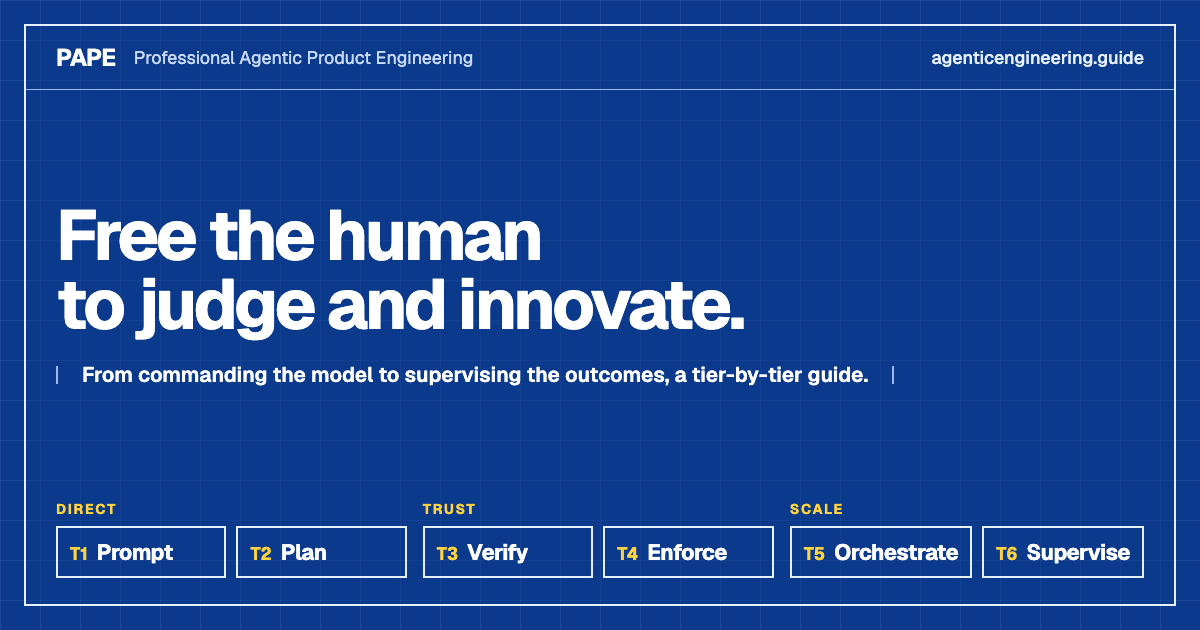
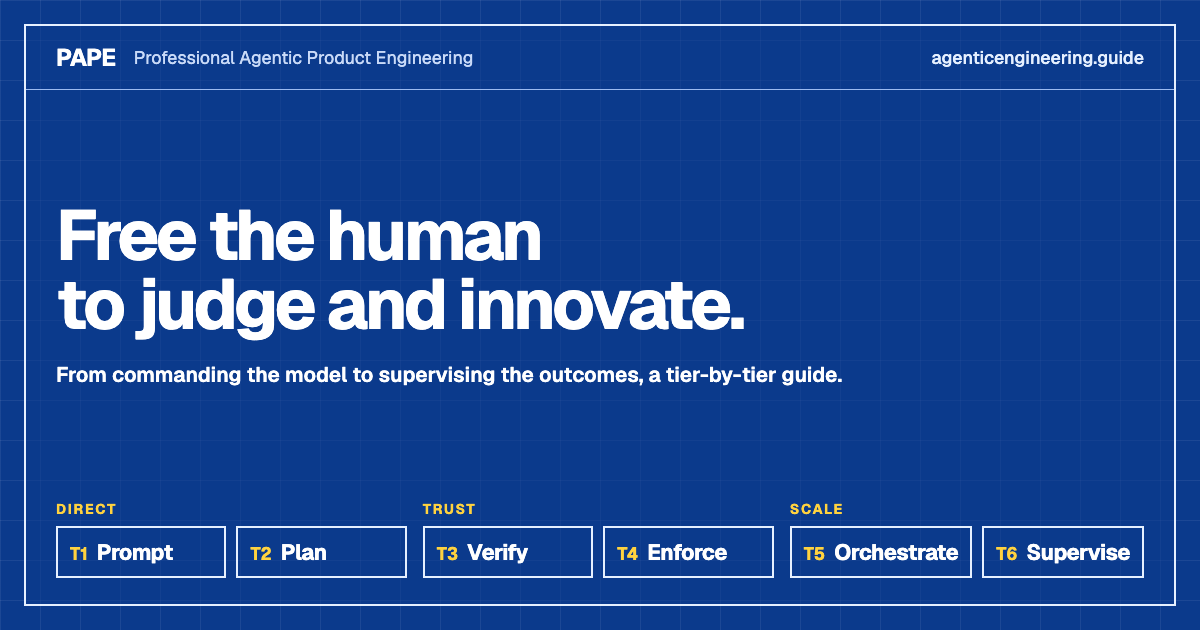
home: subline without the ruler; guide: three-line opener
The subline under the title is plain text now, on the site and the OG card
(regenerated). The opener drops from five lines to three: the headline and
subline already say "free the human" and "tier by tier". Plugin copy synced
(still 1.0.1, unreleased); DESIGN.md and the wiki log updated.

Claude-Session: https://claude.ai/code/session_01SnBLMw6vnayDbfUH7ezPv3

Changed region(s): [[0.0308, 0.573, 0.74, 0.6333]]

diff --git a/web/src/styles.css b/web/src/styles.css
@@ -358,17 +358,14 @@ button { font: inherit; }
   display: grid; grid-template-columns: minmax(0, 1.55fr) minmax(0, 1fr); column-gap: 64px;
   padding-bottom: 40px;
 }
-.hero-title, .ruler { grid-column: 1 / -1; }
+.hero-title, .hero-subline { grid-column: 1 / -1; }
 .hero-opener, .hero-shift { grid-column: 1; }
 .hero-title {
   margin: 0 0 22px; max-width: 13em;
   font-size: clamp(42px, 5vw, 72px); line-height: .95; font-weight: 700; letter-spacing: -0.045em;
   color: var(--heading);
 }
-.ruler { display: flex; align-items: center; gap: 12px; max-width: 760px; margin: 0 0 26px; }
-.ruler-tick { flex: 0 0 2px; height: 20px; background: var(--line2); }
-.ruler-line { flex: 1 1 24px; height: 2px; background: var(--line2); }
-.ruler-text { flex: 0 1 auto; font-size: 17px; font-weight: 600; line-height: 1.3; color: var(--heading); text-align: center; }
+.hero-subline { max-width: 760px; margin: 0 0 26px; font-size: 17px; font-weight: 600; line-height: 1.3; color: var(--heading); }
 .hero-opener { max-width: 760px; margin: 0 0 18px; }
 .content .hero-opener p { margin: 0; font-size: 18.5px; line-height: 1.6; color: var(--body); text-wrap: pretty; }
 .content .hero-shift { max-width: 760px; margin: 0; font-size: 17.5px; color: var(--heading); }
@@ -535,9 +532,6 @@ button { font: inherit; }
   .stage { grid-row: auto; grid-template-rows: none; display: flex; flex-direction: column; gap: 12px; }
   .tb-name { font-size: 23px; }
   .tb-row { grid-template-columns: 104px minmax(0, 1fr); }
-  .ruler { display: block; }
-  .ruler-line, .ruler-tick { display: none; }
-  .ruler-text { display: block; text-align: left; padding-left: 12px; border-left: 2px solid var(--line2); }
   .radar-label { font-size: 24px; }
   .radar-name, .radar-scale { display: none; }
   .audit-result > div { grid-template-columns: 112px minmax(0, 1fr); }

diff --git a/web/DESIGN.md b/web/DESIGN.md
@@ -80,7 +80,7 @@ To change a color, edit the hex in `SCHEMES` — never the generated CSS. The bu
 
 Built in `build.mjs` (`p.kind === 'home'`), read from `guide.md` by `homeData()`. Order:
 
-1. **Hero:** title "Professional Agentic Product Engineering", a ruler line carrying the subline ("From commanding the model to supervising the outcomes, a tier-by-tier guide."), the 5-line opener, the deep-dive line ("From coding features to designing systems…"), and the headline "Free the human to judge and innovate."
+1. **Hero:** title "Professional Agentic Product Engineering", the subline ("From commanding the model to supervising the outcomes, a tier-by-tier guide.") as plain text, the 3-line opener, the deep-dive line ("From coding features to designing systems…"), and the headline "Free the human to judge and innovate."
 2. **The six tiers:** three stage columns (Direct · Trust · Scale), each tier a spec card: T-number, name, "You stop" / "You do instead", linking to its tier page. CSS subgrid lines the cards up across columns.
 3. **Buttons:** Start at T1 · How it works · All N tips · Learn it with your agent.
 4. **Audit your harness (self-audit radar):** six 0–5 sliders beside a hexagon radar SVG. Shows **Strongest** (highest-rated tier[s]) and **Next tier** = the lowest-numbered tier rated ≤2, as a link. **No total and no average**, which is the guide's own audit rule. Ratings saved in `pape.selfAudit`. Points to `/pape:harness-audit` for a real audit. Radar maths is duplicated in build.mjs (server render) and app.js (live); keep them in sync.

diff --git a/guide.md b/guide.md
@@ -5,10 +5,8 @@
 **⭐ Star it; submit issues or PRs** — help yourself and the next person learn better.
 
 Maybe writing code was never the human job.  
-We did it, and many of us loved it, because computers couldn't do it themselves.  
 The job was always understanding the problem and deciding what's worth building.  
-Now machines can write the code, if we build the system around them.  
-That system is what this guide teaches: tier by tier, it takes over a chore and frees the human to decide the outcome.
+Machines can write it now, if we build the system around them — this guide teaches that system.
 
 **From coding features to designing systems: this guide is a deep dive into that [agentic shift](https://agentic-shift.com/).**
 

diff --git a/plugins/pape/guide.md b/plugins/pape/guide.md
@@ -5,10 +5,8 @@
 **⭐ Star it; submit issues or PRs** — help yourself and the next person learn better.
 
 Maybe writing code was never the human job.  
-We did it, and many of us loved it, because computers couldn't do it themselves.  
 The job was always understanding the problem and deciding what's worth building.  
-Now machines can write the code, if we build the system around them.  
-That system is what this guide teaches: tier by tier, it takes over a chore and frees the human to decide the outcome.
+Machines can write it now, if we build the system around them — this guide teaches that system.
 
 **From coding features to designing systems: this guide is a deep dive into that [agentic shift](https://agentic-shift.com/).**
 

diff --git a/wiki/log.md b/wiki/log.md
@@ -134,3 +134,7 @@ The line under **Free the human. Elevate human intelligence.** now reads *From c
 ## [2026-10-23] edit | New headline
 
 The guide's headline is now **Free the human to judge and innovate.** (was *Free the human. Elevate human intelligence.*). Updated [[The Six Tiers]] and `index.md`. No tip changed.
+
+## [2026-10-23] edit | Shorter opener
+
+The guide's opener went from five lines to three: *Maybe writing code was never the human job. / The job was always understanding the problem and deciding what's worth building. / Machines can write it now, if we build the system around them — this guide teaches that system.* [[The Six Tiers]] summarizes it and still holds. No tip changed.
